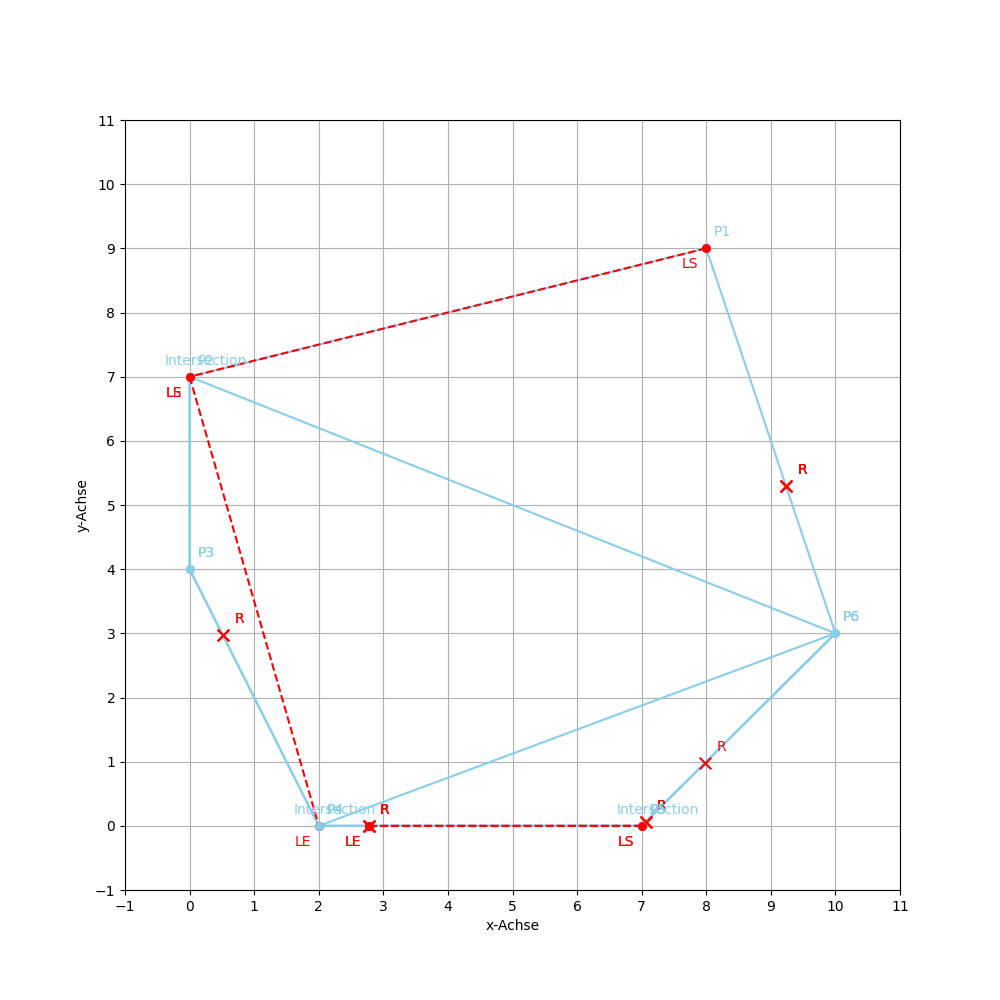
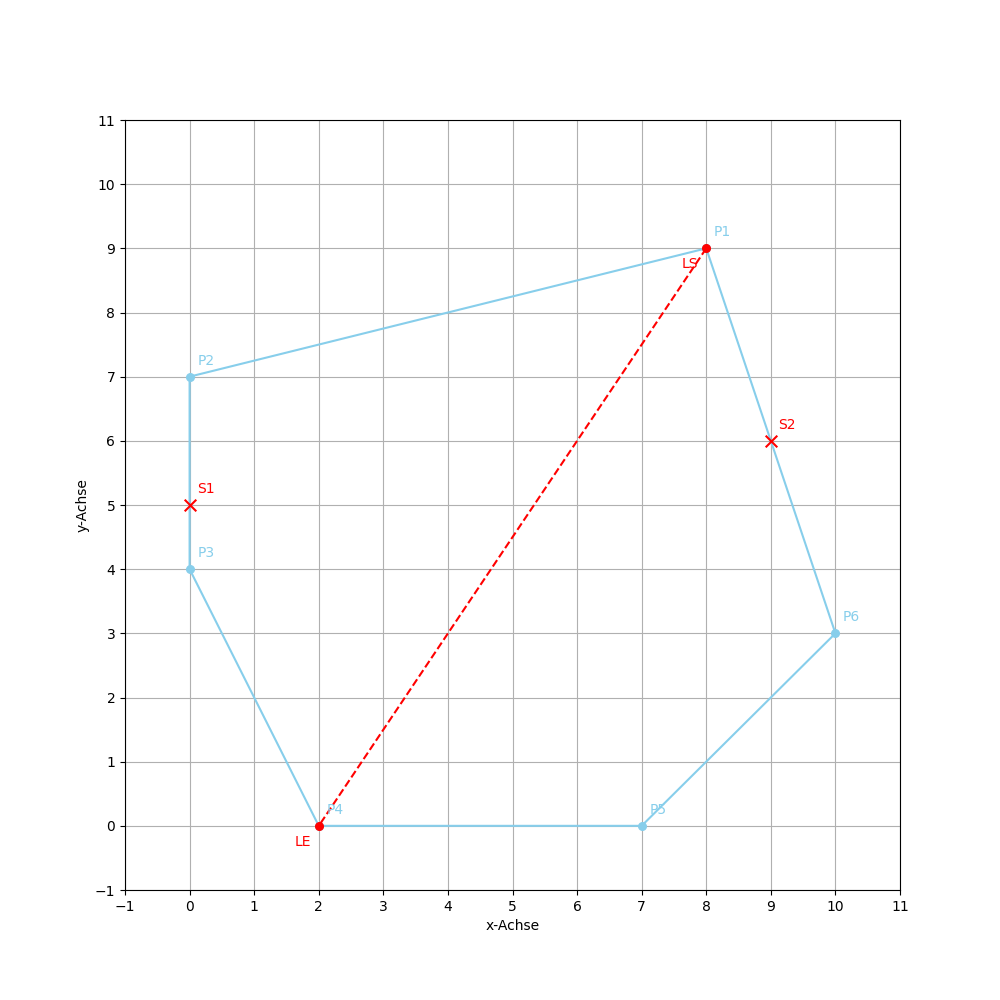
move() improved (removed incremental error)

diff --git a/Code/ConvexDivide/main.py b/Code/ConvexDivide/main.py
@@ -24,12 +24,12 @@ if __name__ == '__main__':
 
     P_init = Problem(V=[Point(8, 9, "P1"), Point(0, 7, "P2"), Point(0, 4, "P3"), Point(2, 0, "P4"), Point(7, 0, "P5"), Point(10, 3, "P6")], S=[])
     num = 5
-    while num > 0:
-        P_init.addRandomSite()
-        num -= 1
+  #  while num > 0:
+ #       P_init.addRandomSite()
+#        num -= 1
 
-    #P_init.addSite(Site(5.187074674214591,8.296768668553648, "xx", 0.77334445885401248))
-    #P_init.addSite(Site(0.0,4.550525314434614, "xx", 0.2851059559985002))
+    P_init.addSite(Site(0, 5, "S1", 0.6))
+    P_init.addSite(Site(9, 6, "S2", 0.4))
 
     P_init.normalize()
 
@@ -101,6 +101,8 @@ if __name__ == '__main__':
 
         else:
             while PrL.area() > PrL.requiredArea(P.area()):
+                prlarea = PrL.area()
+                prlreq = PrL.requiredArea(P.area())
                 move(LE, V, "CW", 0.001)
                 V_PrL = cut(V, LS, LE)
                 PrL = Problem(V = V_PrL[0], S = PrL.S)

diff --git a/Code/ConvexDivide/external.py b/Code/ConvexDivide/external.py
@@ -97,13 +97,23 @@ def move(p, V, direction, dist):
         elif direction == "CCW":
             j = (i + 1) % num_pts
 
-    dx = V[i].x - V[j].x
-    dy = V[i].y - V[j].y
 
-    l = math.sqrt(dx**2 + dy**2)
-
-    p.x = V[j].x + dx * (dist/l)
-    p.y = V[j].y + dy * (dist/l)
+    if direction == "CW":
+        dx = V[j].x - V[i].x
+        dy = V[j].y - V[i].y
+        l = math.sqrt(dx ** 2 + dy ** 2)
+        dx = dx * (l-dist)/l
+        dy = dy * (l-dist)/l
+        p.x = V[i].x + dx
+        p.y = V[i].y + dy
+    elif direction == "CCW":
+        dx = V[i].x - V[j].x
+        dy = V[i].y - V[j].y
+        l = math.sqrt(dx ** 2 + dy ** 2)
+        dx = dx * (l - dist) / l
+        dy = dy * (l - dist) / l
+        p.x = V[j].x + dx
+        p.y = V[j].y + dy
 
     return p
 
